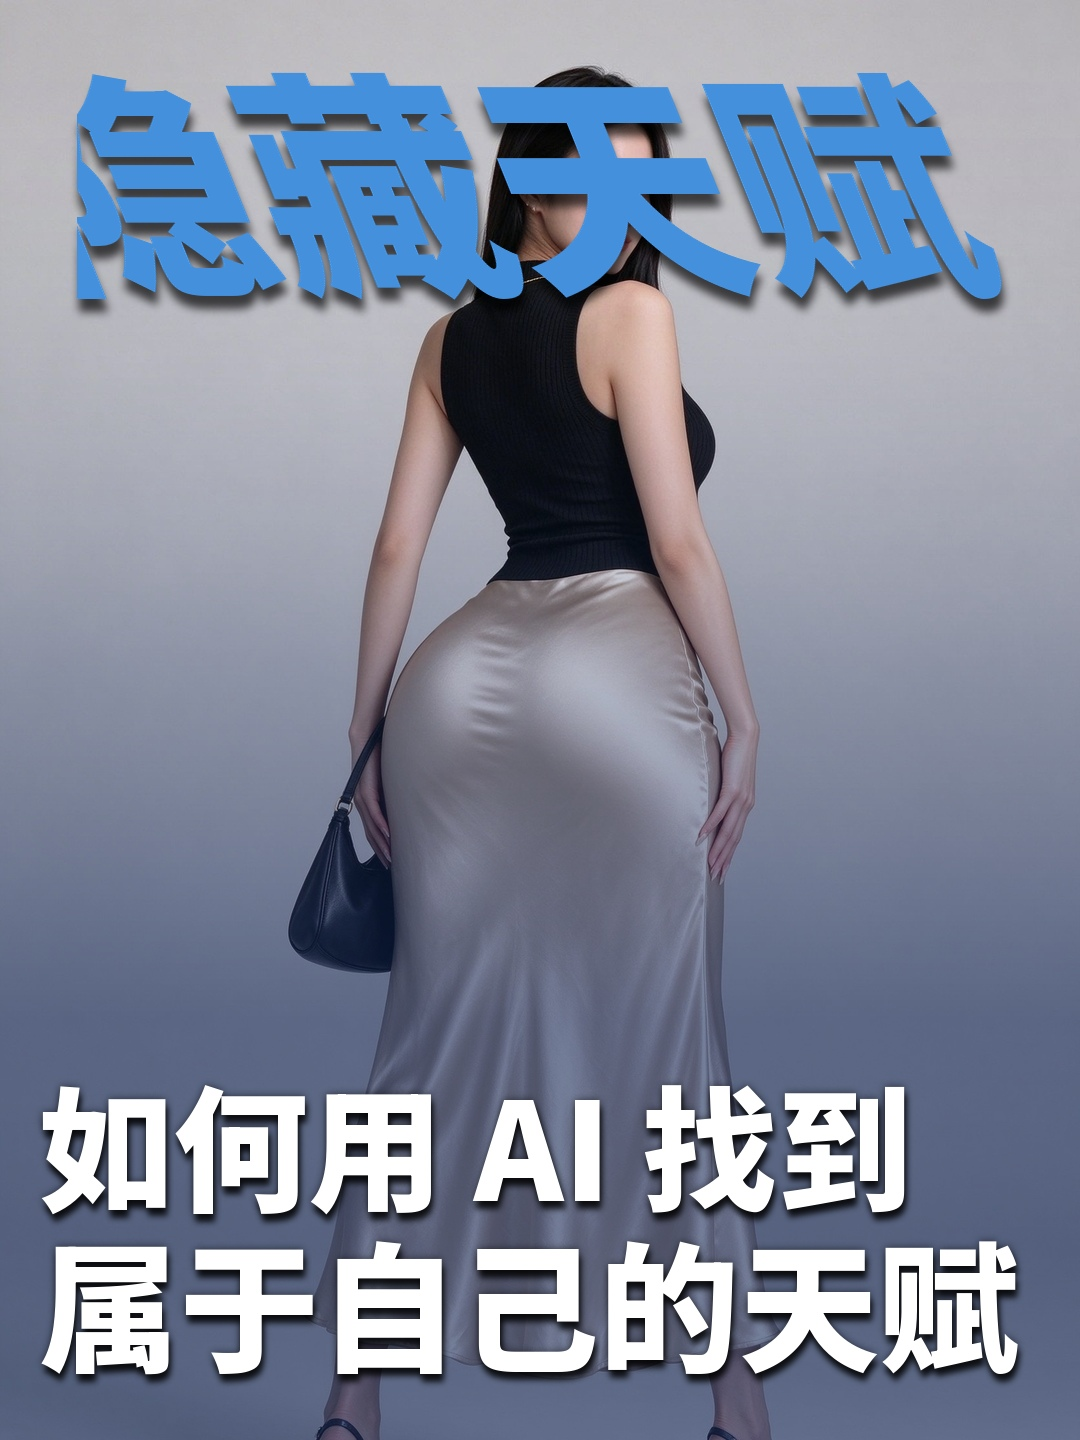
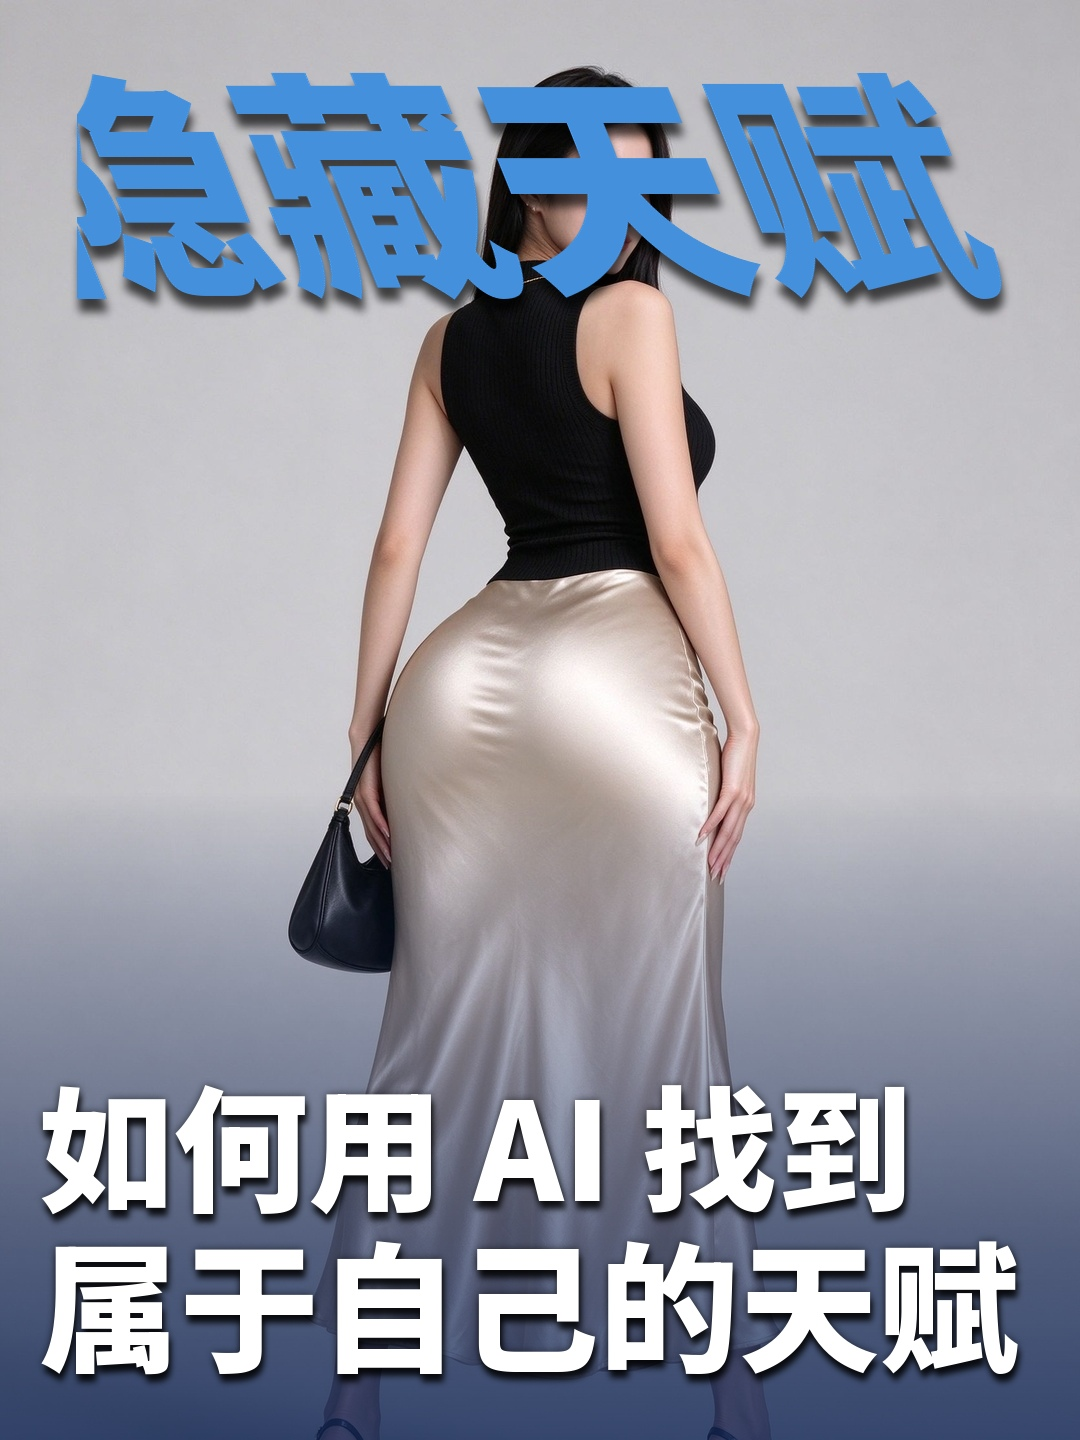
fix(style04): 底带改为只压下段 + 底行字号上限
- 底带起点 0.46H→0.55H，起点以上 alpha=0：白底图（白墙白衣）不再整张蒙灰
- 底带曲线改 t^0.80，峰值 185→205；auto 采样区间移到 0.66H 以下
- 新增 --bot-cap（底行字号 ≤ 标题 × 0.85），修掉 4 字短句撑满后比标题还大
- 新增 --title-w，标题贴边时可收窄
- 重出 showcase 与 all-styles

diff --git a/tools/style04_title_band.py b/tools/style04_title_band.py
@@ -57,6 +57,7 @@ BOT_W_LEAD = 0.800     # 前几行墨迹宽 / 画布宽（引导）
 BOT_INSET = 0.045      # 末行墨迹底边距 / 画布高
 BOT_GAP = 0.018        # 底行行间空隙 / 画布高
 BOT_LEFT = 0.038       # 底行左边距 / 画布宽（左对齐时）
+BOT_SIZE_CAP = 0.85    # 底行字号上限 / 标题字号 —— 短句不许比标题还大
 
 MIN_SIZE = 0.055
 MAX_SIZE = 0.420       # 顶行 2-4 字时会放得很大
@@ -65,8 +66,8 @@ TITLE_COLOR = '#4490DC'   # 参考图实测：标题蓝 (68,144,220)
 INK = '#FFFFFF'
 
 VEIL_COLOR = '#0E2352'    # 底带：深蓝黑（不是纯黑，底图会保持蓝调）
-VEIL_PEAK = 185           # 底带最浓处 alpha
-VEIL_TOP = 0.46           # 底带从这一行开始向上渐隐
+VEIL_PEAK = 205           # 底带最浓处 alpha（白底图必须压到 190+ 白字才站得住）
+VEIL_TOP = 0.55           # 底带起点：这条线以上一点不压（保住上半身干净）
 
 SHADOW_ALPHA = 210
 SHADOW_DY = 0.0055
@@ -212,9 +213,14 @@ def shear(layer, deg):
 
 
 def fit_line(text, presets, preset, target_w, color, canvas_w,
-             italic=0.0, stroke_w=0.0, stroke_color=None):
-    """二分反解字号，让这一行【剪切后】的墨迹宽度 = target_w"""
-    lo, hi = canvas_w * MIN_SIZE, canvas_w * MAX_SIZE
+             italic=0.0, stroke_w=0.0, stroke_color=None, max_size=None):
+    """二分反解字号，让这一行【剪切后】的墨迹宽度 = target_w
+    max_size：字号硬上限（像素）。给底行用，短句不许放大到比标题还大。
+    """
+    hi = canvas_w * MAX_SIZE
+    if max_size:
+        hi = min(hi, max_size)
+    lo = min(canvas_w * MIN_SIZE, hi)
     best = None
     for _ in range(24):
         mid = (lo + hi) / 2
@@ -239,7 +245,7 @@ def fit_line(text, presets, preset, target_w, color, canvas_w,
         ratio = target_w / layer.width
         if abs(1 - ratio) < 0.004:
             break
-        size = min(max(size * ratio, canvas_w * MIN_SIZE), canvas_w * MAX_SIZE)
+        size = min(max(size * ratio, canvas_w * MIN_SIZE), hi)
         layer = draw_line(text, presets, preset, size, color, italic,
                           stroke_w, stroke_color)
     return layer, size
@@ -258,16 +264,16 @@ def add_shadow(img, layer, pos, alpha, dx, dy, blur):
 # ------------------------------------------------------------ 底带
 
 def build_veil(W, H, color, peak, top_ratio):
-    """从 top_ratio 向上渐隐、向下加深的底带（深蓝黑，不是纯黑）"""
-    grad = Image.new('L', (1, H), peak)
+    """底带：top_ratio 以上完全不压，以下按幂函数加深
+    以前是从上一路斜下来（0.46H 处已有半浓度），白底图会被整张蒙灰，人物全脏。
+    现在起点之上 alpha=0，上半身一点不动。
+    """
+    grad = Image.new('L', (1, H), 0)
     start = int(H * top_ratio)
     span = max(1, H - start)
-    for y in range(start):
-        # 上半段：从 0 快速升到 ~55% 峰值
-        grad.putpixel((0, y), int(peak * 0.55 * (y / start) ** 2.1))
     for y in range(start, H):
         t = (y - start) / span
-        grad.putpixel((0, y), int(peak * (0.55 + 0.45 * min(1.0, t * 2.2))))
+        grad.putpixel((0, y), int(peak * (t ** 0.80)))
     mask = grad.resize((W, H))
     veil = Image.new('RGBA', (W, H), hex2rgba(color))
     veil.putalpha(mask)
@@ -279,10 +285,10 @@ def build_veil(W, H, color, peak, top_ratio):
 def render(base, out, split=None, top=None, bottom=None,
            title_font='noto', bot_font='noto',
            title_color=TITLE_COLOR, ink=INK,
-           italic=ITALIC, title_stroke=TITLE_STROKE,
+           italic=ITALIC, title_stroke=TITLE_STROKE, title_w=TITLE_W,
            width=1080, height=1440, offset_y=0,
            shadow=True, veil='auto', veil_color=VEIL_COLOR, veil_peak=VEIL_PEAK,
-           align='left', demo_grid=False):
+           align='left', bot_cap=BOT_SIZE_CAP, demo_grid=False):
     W, H = width, height
 
     img = crop_to_ratio(Image.open(base).convert('RGB'), W / H).resize(
@@ -306,9 +312,9 @@ def render(base, out, split=None, top=None, bottom=None,
     if veil == 'auto':
         import numpy as np
         arr = np.asarray(img.convert('RGB'), dtype=float)
-        band = arr[int(H * 0.62):].mean()
+        band = arr[int(H * 0.66):].mean()
         # 深底不用压，浅底压满；底图越亮压得越重（参考图那种「下半身压出一块暗蓝」）
-        veil_a = int(max(60, min(veil_peak, (band - 70) * 1.25)))
+        veil_a = int(max(60, min(veil_peak, (band - 80) * 2.4)))
     elif veil in (0, '0', None):
         veil_a = 0
     else:
@@ -318,14 +324,19 @@ def render(base, out, split=None, top=None, bottom=None,
             img, build_veil(W, H, veil_color, veil_a, VEIL_TOP))
 
     # ---- 逐行反解字号
-    title_layers = [fit_line(t, TITLE_FONTS, title_font, W * TITLE_W, tc, W,
+    title_layers = [fit_line(t, TITLE_FONTS, title_font, W * title_w, tc, W,
                              italic=italic, stroke_w=0,
                              stroke_color=None)
                     for t in top_lines]
+    # 底行字号天花板：不许超过标题的 0.92 —— 短句（如「三个建议」）撑满宽会反客为主
+    cap = None
+    if title_layers and title_layers[0][1]:
+        cap = title_layers[0][1] * bot_cap
     bot_layers = []
     for i, t in enumerate(bot_lines):
         tw = BOT_W if i == len(bot_lines) - 1 else BOT_W_LEAD
-        bot_layers.append(fit_line(t, BOT_FONTS, bot_font, W * tw, wht, W))
+        bot_layers.append(fit_line(t, BOT_FONTS, bot_font, W * tw, wht, W,
+                                   max_size=cap))
 
     title_stage = Image.new('RGBA', (W, H), (0, 0, 0, 0))
     bot_stage = Image.new('RGBA', (W, H), (0, 0, 0, 0))
@@ -410,6 +421,10 @@ def main():
     ap.add_argument('--ink', default=INK, help='底行色，默认白')
     ap.add_argument('--italic', type=float, default=ITALIC,
                     help='标题斜切角度，默认 28 度；0 = 不斜')
+    ap.add_argument('--bot-cap', type=float, default=BOT_SIZE_CAP,
+                    help='底行字号上限 / 标题字号，默认 0.92；1.5 = 放开')
+    ap.add_argument('--title-w', type=float, default=TITLE_W,
+                    help='标题墨迹宽 / 画布宽，默认 0.86；字贴边时收到 0.80-0.83')
     ap.add_argument('--align', default='left', choices=['left', 'center'],
                     help='底行对齐，默认左对齐（参考图特征）')
     ap.add_argument('--width', type=int, default=1080,
@@ -425,11 +440,11 @@ def main():
 
     p = render(a.base, a.out, a.split, a.top, a.bottom,
                a.title_font, a.bot_font, a.title_color, a.ink,
-               a.italic, TITLE_STROKE, a.width, round(a.width * 4 / 3),
+               a.italic, TITLE_STROKE, a.title_w, a.width, round(a.width * 4 / 3),
                offset_y=a.offset_y, shadow=not a.no_shadow,
                veil=(a.veil if a.veil == 'auto' else int(a.veil)),
                veil_color=a.veil_color,
-               align=a.align, demo_grid=a.demo_grid)
+               align=a.align, bot_cap=a.bot_cap, demo_grid=a.demo_grid)
     W, H = p['size']
     print(f"saved: {a.out}  {W}x{H}  veil={p['veil']}")
     for r in p['records']:

diff --git a/style-library/04-斜字压顶.md b/style-library/04-斜字压顶.md
@@ -27,7 +27,7 @@ core:
 ## 三条识别特征
 
 1. **斜切彩字压顶**：标题默认 22° 向右倾（斜体感），一个字都不许横平竖直地放着。颜色默认参考图的亮蓝 `#4490DC`，靠颜色把人从底图里拽出来。
-2. **底部一条暗化底带**：从 0.46 H 起向上渐隐、向下加深，颜色是**深蓝黑**（`#0E2352`）而不是纯黑。压过之后底图下半身整体变冷变暗，白字像贴在深色地面上。纯黑会把底图的皮肤压成脏灰。
+2. **底部一条暗化底带**：0.55 H 以上**一点不压**，以下按幂函数加深，颜色是**深蓝黑**（`#0E2352`）而不是纯黑。压过之后底图下半身整体变冷变暗，白字像贴在深色地面上。纯黑会把底图的皮肤压成脏灰。
 3. **一行大、一行小**：末行撑满 90.5% W，上面那行只撑 80% W；两行还用同一个左基线，读起来是「平铺一句 → 加大落点」。
 
 ## 参数（相对画布，换画布也成立）
@@ -46,9 +46,14 @@ size_range: 0.055 W ≤ 字号 ≤ 0.420 W
 
 # 底带
 veil_color: #0E2352     # 深蓝黑；不要用纯黑
-veil_peak:  185/255     # 最浓处
-veil_top:   0.46 H      # 从这里开始向上渐隐
-veil_auto:  (0.62 H 以下均值 - 70) × 1.25，夹在 60~185 之间
+veil_peak:  205/255     # 最浓处（白底图必须到 190+ 白字才站得住）
+veil_top:   0.55 H      # 这条线以上 alpha=0，一点不压
+veil_curve: alpha = peak × t^0.80   # t 从起点到画布底的归一化距离
+veil_auto:  (0.66 H 以下均值 - 80) × 2.4，夹在 60~205 之间
+
+# 底行字号天花板
+bot_cap:    0.85        # 底行字号 ≤ 标题字号 × 0.85
+                        # 不设这个，4 个字的短句撑满 0.905 W 会比标题还大，主次立刻颠倒
 
 # 标题阴影：只有一层右下柔影，不加暗晕（暗晕会糊掉细笔画和斜切边）
 title_shadow: 偏移 0.0022 W / 0.0088 H，模糊 0.0039 W，黑 175/255
@@ -82,6 +87,8 @@ python tools/style04_title_band.py --base 底图.png --out 封面.png \
 ... --title-color "#FF3B30" --veil-color "#2A0A12"
 ... --italic 0            # 不要斜切
 ... --veil 200            # 底带拉满
+... --title-w 0.82        # 标题贴边时收窄
+... --bot-cap 0.75        # 底部短句再压小一档
 ... --align center        # 底行改居中
 ```
 
@@ -103,7 +110,10 @@ python tools/style04_title_band.py --base 底图.png --out 封面.png \
 - **`Image.transform` 的输出尺寸必须包含扩展区**。写成 `transform((w, h), AFFINE, (1, -k, extra, 0, 1, 0))` 时，右移的部分会被直接切掉，字看起来像被削掉一截——输出要用 `(w + extra, h)`。这个 bug 表现为「左边第一个字缺一块、右边最后一个字被裁」，很容易误判成居中算错。
 - **斜切角度超过 28° 会失真**。中文字身是方的，剪太狠笔画会拉成斜条；22° 最像正常的斜体，30° 以上只适合英文。
 - **标题不能加暗晕**。样式02 那双层阴影挪过来会把斜切边的抗锯齿糊成毛边，蓝字看着发脏。标题只要一层右下柔影。
-- **底带的过渡要够长**。从 0.46 H 开始渐隐，到 0.70 H 附近才到峰值，中间这段是缓坡；把起点提到 0.60 H 会变成一条明显的横向分界，很假。
-- **`veil auto` 的分母看 0.62 H 以下**。只看整张图均值会被上半部的高光骗过去：人物头顶白墙一亮，算法以为整张很亮，底带就压过头了。
+- **底带起点不能太高**。一开始用 0.46 H 起渐隐、上一路斜下来，白底图（白墙白衣服）会被整张蒙上一层灰蓝，人物全脏。起点以上必须 `alpha = 0`，0.55 H 是最稳的位置：腰部以下压、以上不动。
+- **底带起点也不能太低**（0.68 H 以下），那样第一条底行会压在没有暗带的亮底上，只剩阴影硬撑。
+- **`veil auto` 只看 0.66 H 以下**。看整张图均值会被上半部高光骗过去：人物头顶白墙一亮，算法以为整张很亮，底带就压过头；反过来，画面里有深色镜框、地面又会拉低均值，白裙子上的白字就废了。
+- **短句必须设字号天花板**。`三个建议` 4 个字撑 0.905 W 时字号会到 249，比 7 个字的标题（203）还大，主次直接颠倒。`--bot-cap 0.85` 按标题字号做上限，短句自动收窄、留白。
+- **底行两行字数差不要超过 2 字**。这套逻辑是「每行独立撑满目标宽」，7 字配 4 字时字号差 20%+，看着像两句不相干的话。文案尽量对成 6/8、7/7 这种。
 - **底行左对齐要设上限**。`x = min(0.038 W, W - 字宽 - 0.02 W)`，否则长行会顶出右边界。
 - **中英混排的空格会撑开字距**。文案写「如何用AI找到」比「如何用 AI 找到」更紧凑——中文排版里英文两侧不需要手动加空格，加了会在放大后变成明显的洞。

diff --git a/README.md b/README.md
@@ -98,8 +98,10 @@ python tools/style04_title_band.py \
 | `--title-color` | `#4490DC` | 标题色，参考图实测的亮蓝 |
 | `--italic` | `22` | 标题斜切角度，`0` = 不斜（会退化成样式02） |
 | `--title-font` / `--bot-font` | `noto` | 思源黑 900；可选 `yahei` / `heiti` / `serif` |
-| `--veil` | `auto` | 底部暗化底带强度 0-220，`auto` 按底图亮度自动定 |
+| `--veil` | `auto` | 底部暗化底带强度 0-205，`auto` 按底图亮度自动定 |
 | `--veil-color` | `#0E2352` | 底带颜色，**不要用纯黑** |
+| `--title-w` | `0.86` | 标题墨迹宽 / 画布宽，贴边时收到 `0.80-0.83` |
+| `--bot-cap` | `0.85` | 底行字号上限 / 标题字号，防止短句反客为主 |
 | `--align` | `left` | 底行对齐：`left` 左对齐 / `center` 居中 |
 | `--offset-y` | `0` | 整块上下微调像素 |
 | `--no-shadow` | off | 关掉所有阴影 |
@@ -185,12 +187,14 @@ python tools/style04_title_band.py \
 底行行隙      0.018 H
 底行左对齐    0.038 W
 底带颜色      #0E2352 深蓝黑       # 不要纯黑，会把肤色压脏
-底带峰值      185/255，从 0.46 H 起向上渐隐
+底带峰值      205/255
+底带起点      0.55 H                # 这条线以上 alpha=0，一点不压
+底行字号上限  0.85 × 标题字号        # 短句不许比标题还大
 ```
 
 **斜切是这张卡的身份证**：正着放就退化成样式02。斜切后墨迹宽度没有解析式，必须实绘回修。
 
-**底带不是色块**：上沿从 0.46 H 一路渐隐到 0.70 H 才到峰值，是缓坡。做成硬边就是样式03 的白条换了个颜色。
+**底带不是色块**：0.55 H 以上一点不压，以下按 `t^0.80` 逐渐加深，是缓坡。做成硬边就是样式03 的白条换了个颜色；起点抬到 0.46 H 会让白底图整张蒙灰。
 
 ---
 
